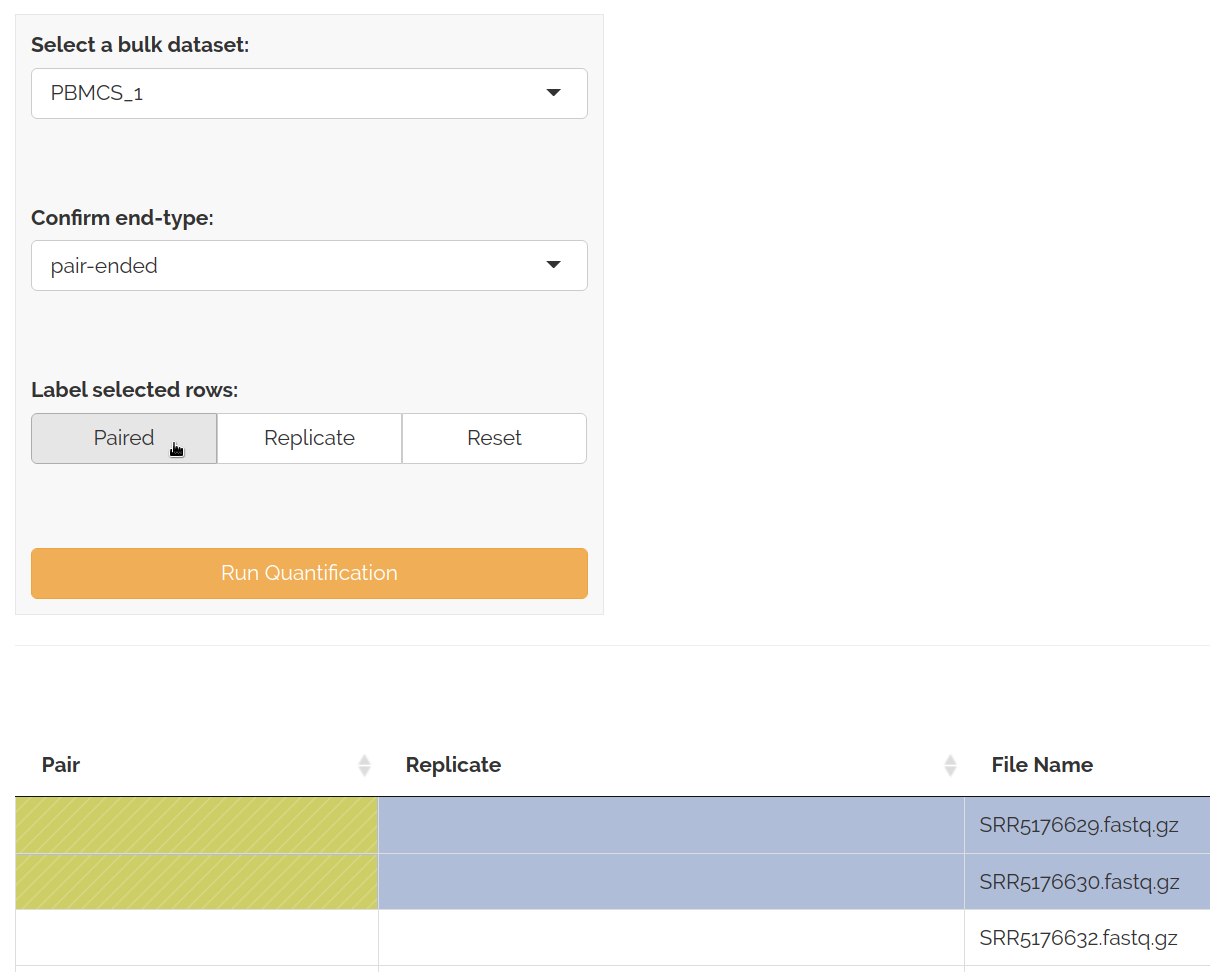
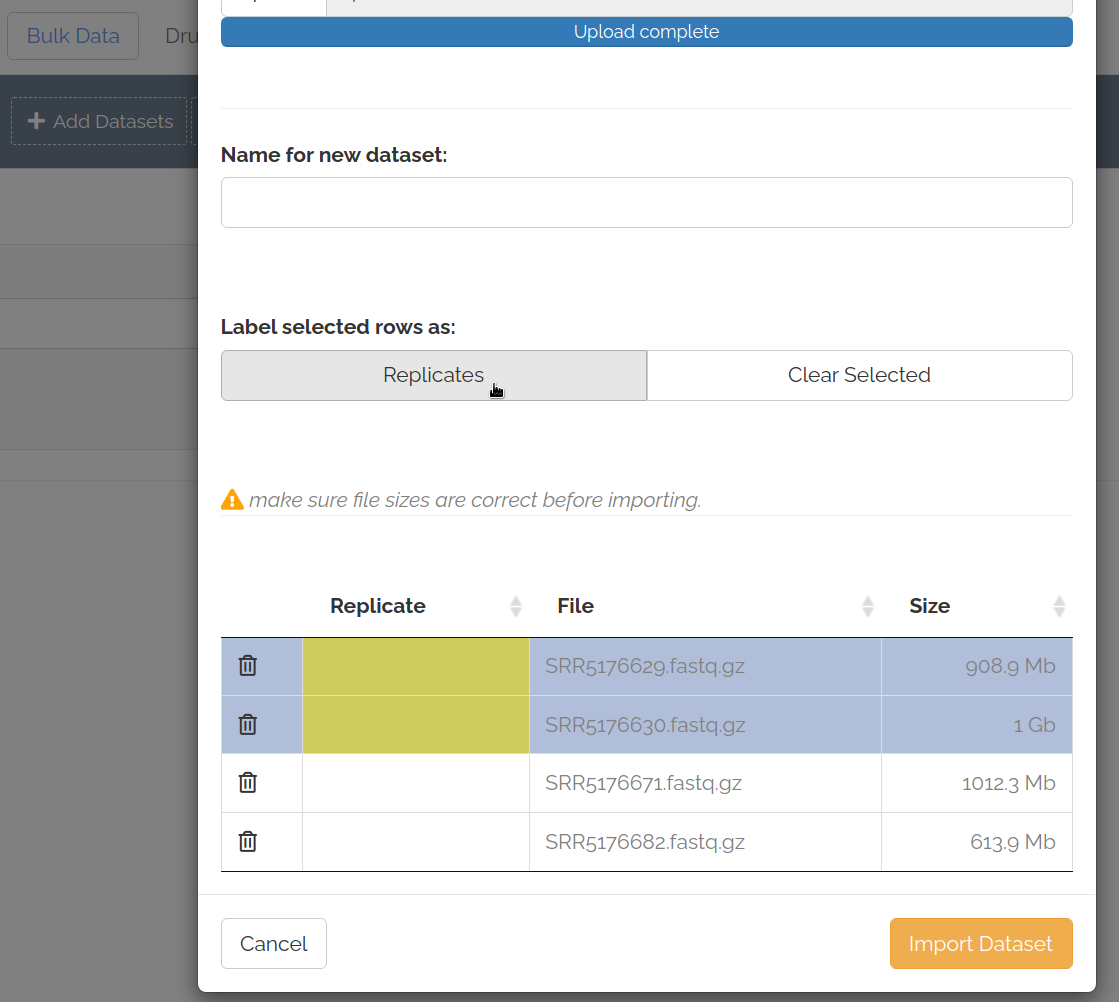
update docs

diff --git a/content/docs/single-cell/compare-samples/index.md b/content/docs/single-cell/compare-samples/index.md
@@ -20,12 +20,12 @@ toc: true
 To run differential analyses between test and control samples:
 1. select an integrated **dataset**
 2. click **samples** comparison
-3. Download, fill out, then upload group and pairs metadata
-4. Then select test and control groups to compare
+3. Open, fill out, and close the **edit sample groups** table
+4. Then specify test and control groups to compare
 
 {{< img-simple src="multi-groups.png" alt="Download Comparison" class="border-1" >}}
 
-{{< alert icon="💡" text="Pairs are used to indicate paired samples - e.g. same individual pre/post treatment. Sample pairs will be used as a blocking variable for pseudobulk mixed-effect differential expression analyses with <a href='https://bioconductor.org/packages/release/bioc/html/limma.html'>limma</a>." >}}
+<!-- {{< alert icon="💡" text="Pairs are used to indicate paired samples - e.g. same individual pre/post treatment. Sample pairs will be used as a blocking variable for pseudobulk mixed-effect differential expression analyses with <a href='https://bioconductor.org/packages/release/bioc/html/limma.html'>limma</a>." >}} -->
 
 {{< alert icon="💡" text="Dseqr uses limma-voom for pseudobulk and differential abundance analyses" >}}
 
@@ -54,11 +54,11 @@ A [differential abundance analysis](http://bioconductor.org/books/release/OSCA/m
 
 Dseqr runs Gene Ontology over-representation analysis of significantly up- and down-regulated genes. This uses a cached adaptation of [goana](https://www.bioconductor.org/packages/devel/workflows/vignettes/RnaSeqGeneEdgeRQL/inst/doc/edgeRQL.html#pathway-analysis).
 
-{{< alert icon="💡" text="Adaptations to goana:</br></br>- Uses genes with FDR < 0.05 with a min of 50 up/down.</br>- Uses expressed genes as a background (from edgeR::filterByExpr).</br>- Removes terms with fewer than 4 up/down genes (too few).</br>- Removes terms with more than 250 genes (too broad).</br>- Removes terms with Δup-down < 3 genes per 10 (not distinctly up/down).</br>- Keeps terms with FDR < 0.05 (not significant).</br>- Removes terms with FDR < 0.05 for up and down (not distinctly up/down)" >}}
+{{< alert icon="💡" text="Adaptations to goana:</br></br>- Uses genes with FDR < 0.05 with a min of 50 up/down.</br>- Uses expressed genes as a background (from edgeR::filterByExpr).</br>- Removes terms with fewer than 4 up/down genes (too few).</br>- Removes terms with more than 250 genes (too broad).</br>- Removes terms with Δup-down < 3 genes per 10 (not distinctly up/down).</br>- Removes terms with FDR > 0.05 (not significant).</br>- Removes terms with FDR < 0.05 for both up/down (not distinctly up/down)" >}}
 
 {{< alert icon="💡" text="Terms are grouped if their set of up/down genes have a jaccard similarity > 0.7 (smallest FDR is parent)." >}}
 
-{{< alert icon="💡" text="The Regex column in the GO csv can be pasted into the gene search box to explore significantly up/down genes for a term." >}}
+{{< alert icon="💡" text="The <b>Genes</b> column in the GO csv can be pasted into the gene search box to explore up/down genes for a term." >}}
 
 ### Visual exploration
 

diff --git a/content/docs/bulk/data-import/index.md b/content/docs/bulk/data-import/index.md
@@ -15,28 +15,30 @@ toc: true
 
 ### Upload data
 
-To create a bulk dataset, type a new dataset name and click *"Add name"*:
+To create a bulk dataset, click __Add Datasets__ in the secondary navigation bar to open the upload modal. Then upload human fastq.gz files.
 
 {{< img-simple src="bulk-import.png" alt="Bulk Data Import" class="border-1" >}}
 
-Either select previously uploaded data or upload new data. 
 
-{{< alert icon="💡" text="Supported eset.qs file uploads:</br>- from local dseqr runs </br>- microarray and RNA-seq datasets processed with <a href='https://www.bioconductor.org/packages/release/bioc/html/crossmeta.html'>crossmeta</a>" >}}
+<!-- {{< alert icon="💡" text="Supported eset.qs file uploads:</br>- from local dseqr runs </br>- microarray and RNA-seq datasets processed with <a href='https://www.bioconductor.org/packages/release/bioc/html/crossmeta.html'>crossmeta</a>" >}} -->
 
-{{< alert icon="💡" text="Supported fastq.gz file uploads:</br>- paired or single-ended (up to 30GB each) </br></br><b>FastQ files are deleted 24 hours after upload.</b>" >}}
+{{< alert icon="💡" text="Supported fastq.gz file uploads:</br>- human paired or single-ended (up to 30GB each) </br></br><b>FastQ files are deleted 24 hours after upload.</b>" >}}
+
+{{< alert icon="💡" text="Click the trash can icon beside a file to remove it." >}}
+
+{{< alert icon="💡" text="Fastq.gz files can be uploaded a few at a time." >}}
 
 ### Specify pairs and replicates
 
-For pair-ended samples, select rows of paired samples and click *Paired*:
+For pair-ended samples, select rows of paired samples and click *Pairs*. Similarly indicate any replicates - i.e. the same sample split across multiple files:
 
 {{< img-simple src="bulk-paired.png" alt="Bulk Data Paired" class="border-1" >}}
 
-Similarly indicate any replicates - i.e. the same sample split across multiple files. 
 
-Finally, click *Run Quantification* to start pseudoquantification in the background.
+After providing a dataset name, click *Import Dataset* to start pseudoalignment in the background.
 
 ### Pseudoalignment
 
-{{< alert icon="💡" text="kallisto v0.46.0 is used for pseudo-quantification with an index built using GRCh38 release 94." >}}
+{{< alert icon="💡" text="kallisto v0.46.0 is used for pseudoalignment with an index built using GRCh38 release 94." >}}
 
 

diff --git a/content/docs/bulk/differential-analyses/index.md b/content/docs/bulk/differential-analyses/index.md
@@ -24,7 +24,7 @@ To run differential expression and pathway analyses, first select a test group f
 
 Dseqr runs Gene Ontology over-representation analysis of significantly up- and down-regulated genes. This uses a cached adaptation of [goana](https://www.bioconductor.org/packages/devel/workflows/vignettes/RnaSeqGeneEdgeRQL/inst/doc/edgeRQL.html#pathway-analysis).
 
-{{< alert icon="💡" text="Adaptations to goana:</br></br>- Uses genes with FDR < 0.05 with a min of 50 up/down.</br>- Uses expressed genes as a background (from edgeR::filterByExpr).</br>- Removes terms with fewer than 4 up/down genes (too few).</br>- Removes terms with more than 250 genes (too broad).</br>- Removes terms with Δup-down < 3 genes per 10 (not distinctly up/down).</br>- Keeps terms with FDR < 0.05 (not significant).</br>- Removes terms with FDR < 0.05 for up and down (not distinctly up/down)" >}}
+{{< alert icon="💡" text="Adaptations to goana:</br></br>- Uses genes with FDR < 0.05 with a min of 50 up/down.</br>- Uses expressed genes as a background (from edgeR::filterByExpr).</br>- Removes terms with fewer than 4 up/down genes (too few).</br>- Removes terms with more than 250 genes (too broad).</br>- Removes terms with Δup-down < 3 genes per 10 (not distinctly up/down).</br>- Removes terms with FDR > 0.05 (not significant).</br>- Removes terms with FDR < 0.05 for both up/down (not distinctly up/down)" >}}
 
 {{< alert icon="💡" text="Terms are grouped if their set of up/down genes have a jaccard similarity > 0.7 (smallest FDR is parent)." >}}
 

diff --git a/content/docs/single-cell/annotation/index.md b/content/docs/single-cell/annotation/index.md
@@ -19,7 +19,9 @@ A good starting point for cluster annotation is to transfer labels from an exist
 
 {{< img-simple src="annotate-transfer.png" alt="Label Transfer" class="border-1" >}}
 
-{{< alert icon="💡" text="Label transfer uses <a href='http://bioconductor.org/books/release/OSCA/cell-type-annotation.html'>SingleR</a> and includes the <i>Blueprint Encode Data</i> for human samples and the <i>Mouse RNAseq Data</i> for mouse samples (discribed in previous link) as external references." >}}
+{{< alert icon="💡" text="Label transfer uses <a href='http://bioconductor.org/books/release/OSCA/cell-type-annotation.html'>SingleR</a> and includes external references from <a href='https://bioconductor.org/packages/release/data/experiment/manuals/celldex/man/celldex.pdf'>celldex</a>." >}}
+
+{{< alert icon="💡" text="For cross-species transfer, datasets are first mapped to human homologs." >}}
 
 
 ### Change cluster name
@@ -60,4 +62,4 @@ Click the BioGPS toggle button to view the relative expression of the selected g
 
 {{< img-simple src="annotation-biogps.png" alt="Plot Feature" class="border-1" >}}
 
-{{< alert icon="💡" text="Clicking the external link button to the right of the BioGPS toggle will take you to the Gene Cards entry for the selected gene." >}}
+{{< alert icon="💡" text="Clicking the gene name link will take you to the Gene Cards entry for the selected gene." >}}

diff --git a/content/docs/single-cell/add-dataset/index.md b/content/docs/single-cell/add-dataset/index.md
@@ -39,5 +39,7 @@ To add single-cell datasets:
 
 
 {{< alert icon="💡" text="Supported Cell Ranger file uploads:</br>- raw_feature_bc_matrix.h5 or </br>- *matrix.mtx(.gz), *barcodes.tsv(.gz), and *genes|features.tsv(.gz)" >}}
-{{< alert icon="💡" text="Supported fastq.gz file uploads:</br>- 10X Genomics 3' (up to 30GB each) </br></br><b>FastQ files are deleted 24 hours after upload.</b>" >}}
-{{< alert icon="💡" text="- Cell Ranger files from all <a href='https://uswest.ensembl.org/info/about/species.html'>ensembl species</a> are supported.</br>- Only human fastq.gz files are currently supported. </br></br><a href='mailto:alexvpickering@gmail.com'>submit a request →</a>" >}}
+<!-- {{< alert icon="💡" text="Supported fastq.gz file uploads:</br>- 10X Genomics 3' (up to 30GB each) </br></br><b>FastQ files are deleted 24 hours after upload.</b>" >}} -->
+
+{{< alert icon="💡" text="- Cell Ranger files from all <a href='https://uswest.ensembl.org/info/about/species.html'>ensembl species</a> are supported.">}}
+<!-- </br>- Only human fastq.gz files are currently supported. </br></br><a href='mailto:alexvpickering@gmail.com'>submit a request →</a>" >}} -->

diff --git a/content/docs/single-cell/integrate/index.md b/content/docs/single-cell/integrate/index.md
@@ -15,11 +15,13 @@ toc: true
 
 ### Specify datasets
 
-Click the toggle twice to open integration controls and select datasets to integrate: 
+Click __Integrate Datasets__ in the secondary navigation bar to open the integration modal. Then select datasets to integrate: 
 
 {{< img-simple src="integrate.png" alt="Select Integration" class="border-1" >}}
 
-Then select integration types and provide a new dataset name. To begin integration, click the plus button:
+{{< alert icon="💡" text="Three or more samples are needed for grid overlays and to calculate differential expression and abundance p-values.</br></br>Datasets with two samples will only show logFC." >}}
+
+Then select integration types and provide a new dataset name. To begin integration, click __Integrate Datasets__:
 
 {{< img-simple src="integrate-submit.png" alt="Select Datasets" class="border-1" >}}
 

diff --git a/content/docs/general/usability/index.md b/content/docs/general/usability/index.md
@@ -32,15 +32,9 @@ Click the information icon at the top of any page for a guided tour of the main 
 {{< img-simple src="tour.png" alt="Tour" class="border-1" >}}
 
 
-### Download plot data
+### Interactive scatterplots
 
-Hover over any plot to download it's data:
-
-{{< img-simple src="download_data.png" alt="Download Plot Data" class="border-1" >}}
-
-### Zoom single-cell plots
-
-Brush and double click single-cell dot and grid plots to zoom. Double click to zoom back out:
+Scroll to zoom and drag to pan on scatterplots:
 
 {{< img-simple src="zoom-sc.png" alt="Zoom Single-Cell" class="border-1" >}}
 

diff --git a/content/docs/single-cell/preprocessing/index.md b/content/docs/single-cell/preprocessing/index.md
@@ -36,7 +36,7 @@ The [OSCA](http://bioconductor.org/books/release/OSCA/) handbook was used to gui
 
 ### Dimensionality reduction and clustering
 
-{{< alert icon="💡" text="The top 30 principle components are used to detect clusters and generate TSNE plots." >}}
+{{< alert icon="💡" text="The top 30 principle components are used to detect clusters and generate UMAP plots." >}}
 
 {{< alert icon="💡" text="Clustering uses the leiden algorithm and the resolution parameter can be adjusted." >}}
 

diff --git a/content/docs/bulk/deconvolution/index.md b/content/docs/bulk/deconvolution/index.md
@@ -27,6 +27,9 @@ Next select a reference single-cell dataset and clusters that you want to use to
 
 Click *Submit cell-type deconvolution* to begin. 
 
+{{< alert icon="💡" text="Non-human reference single-cell datasets and first mapped to human homologs." >}}
+
+
 When complete, you will see a plot of the estimated proportion of each cell-type in each bulk sample, summarized by bulk sample groups:
 
 {{< img-simple src="bulk-deconvolution-plot.png" alt="Bulk Deconvolution" class="border-1" >}}
